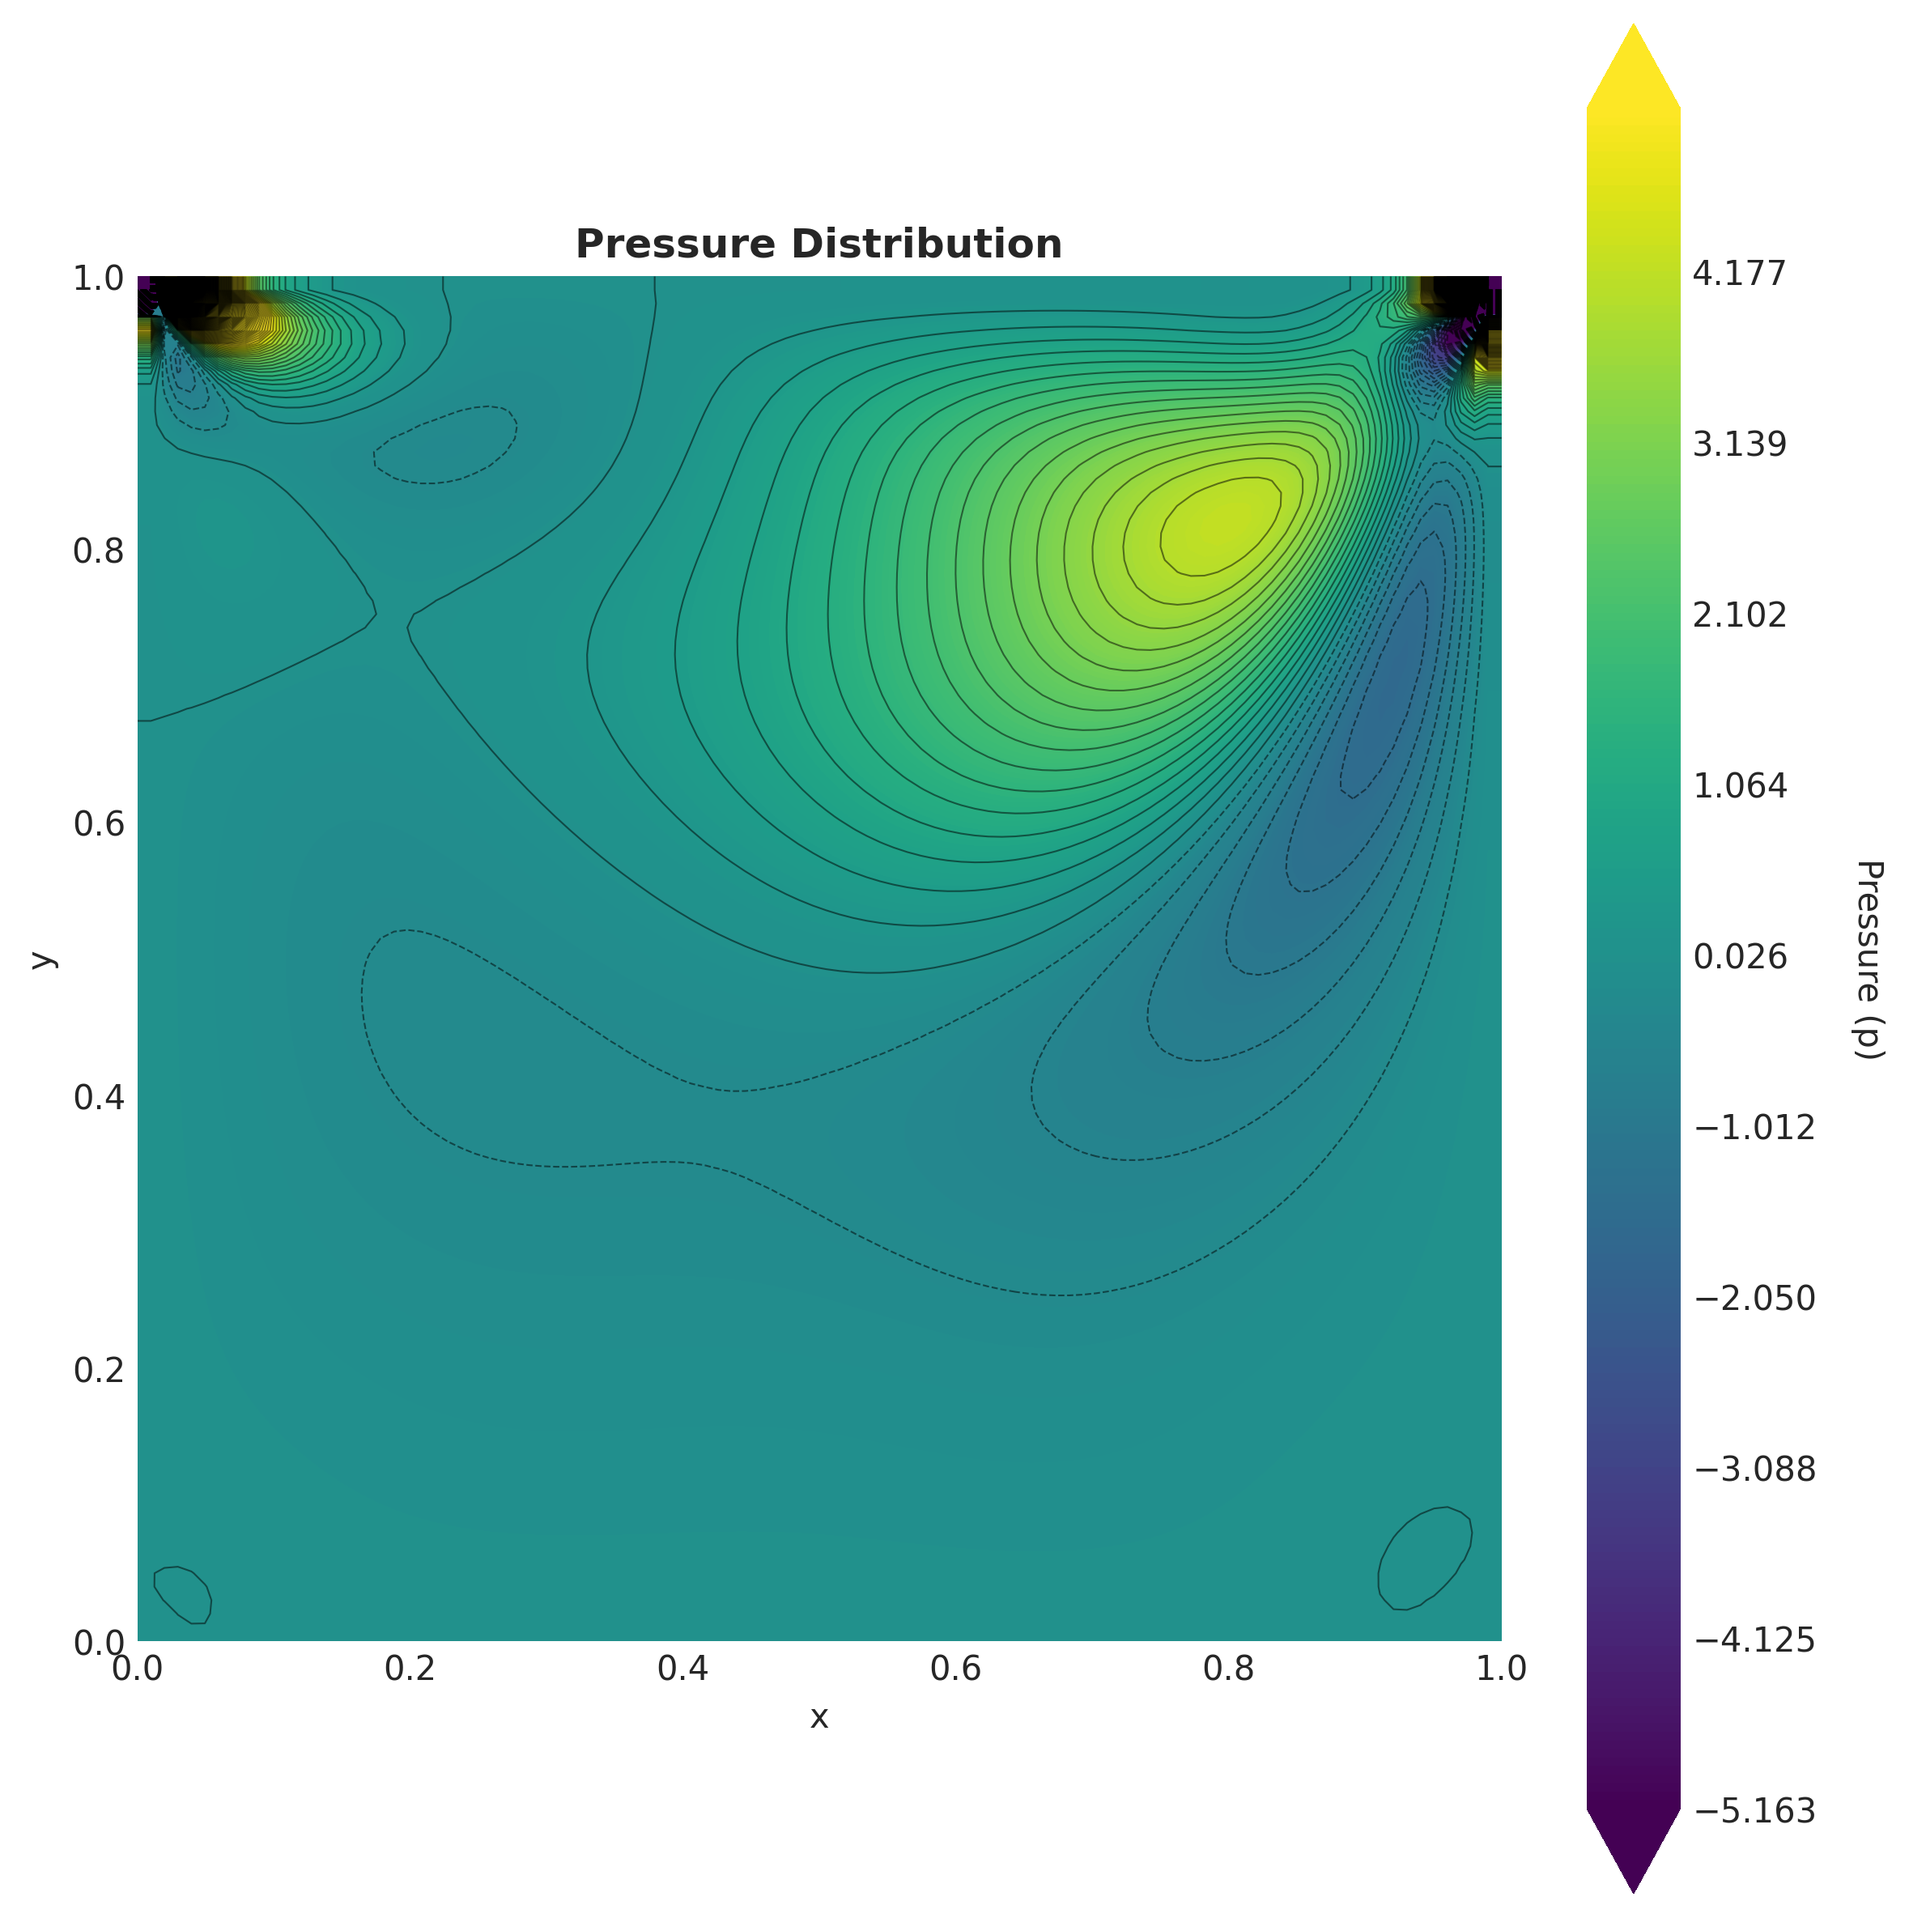
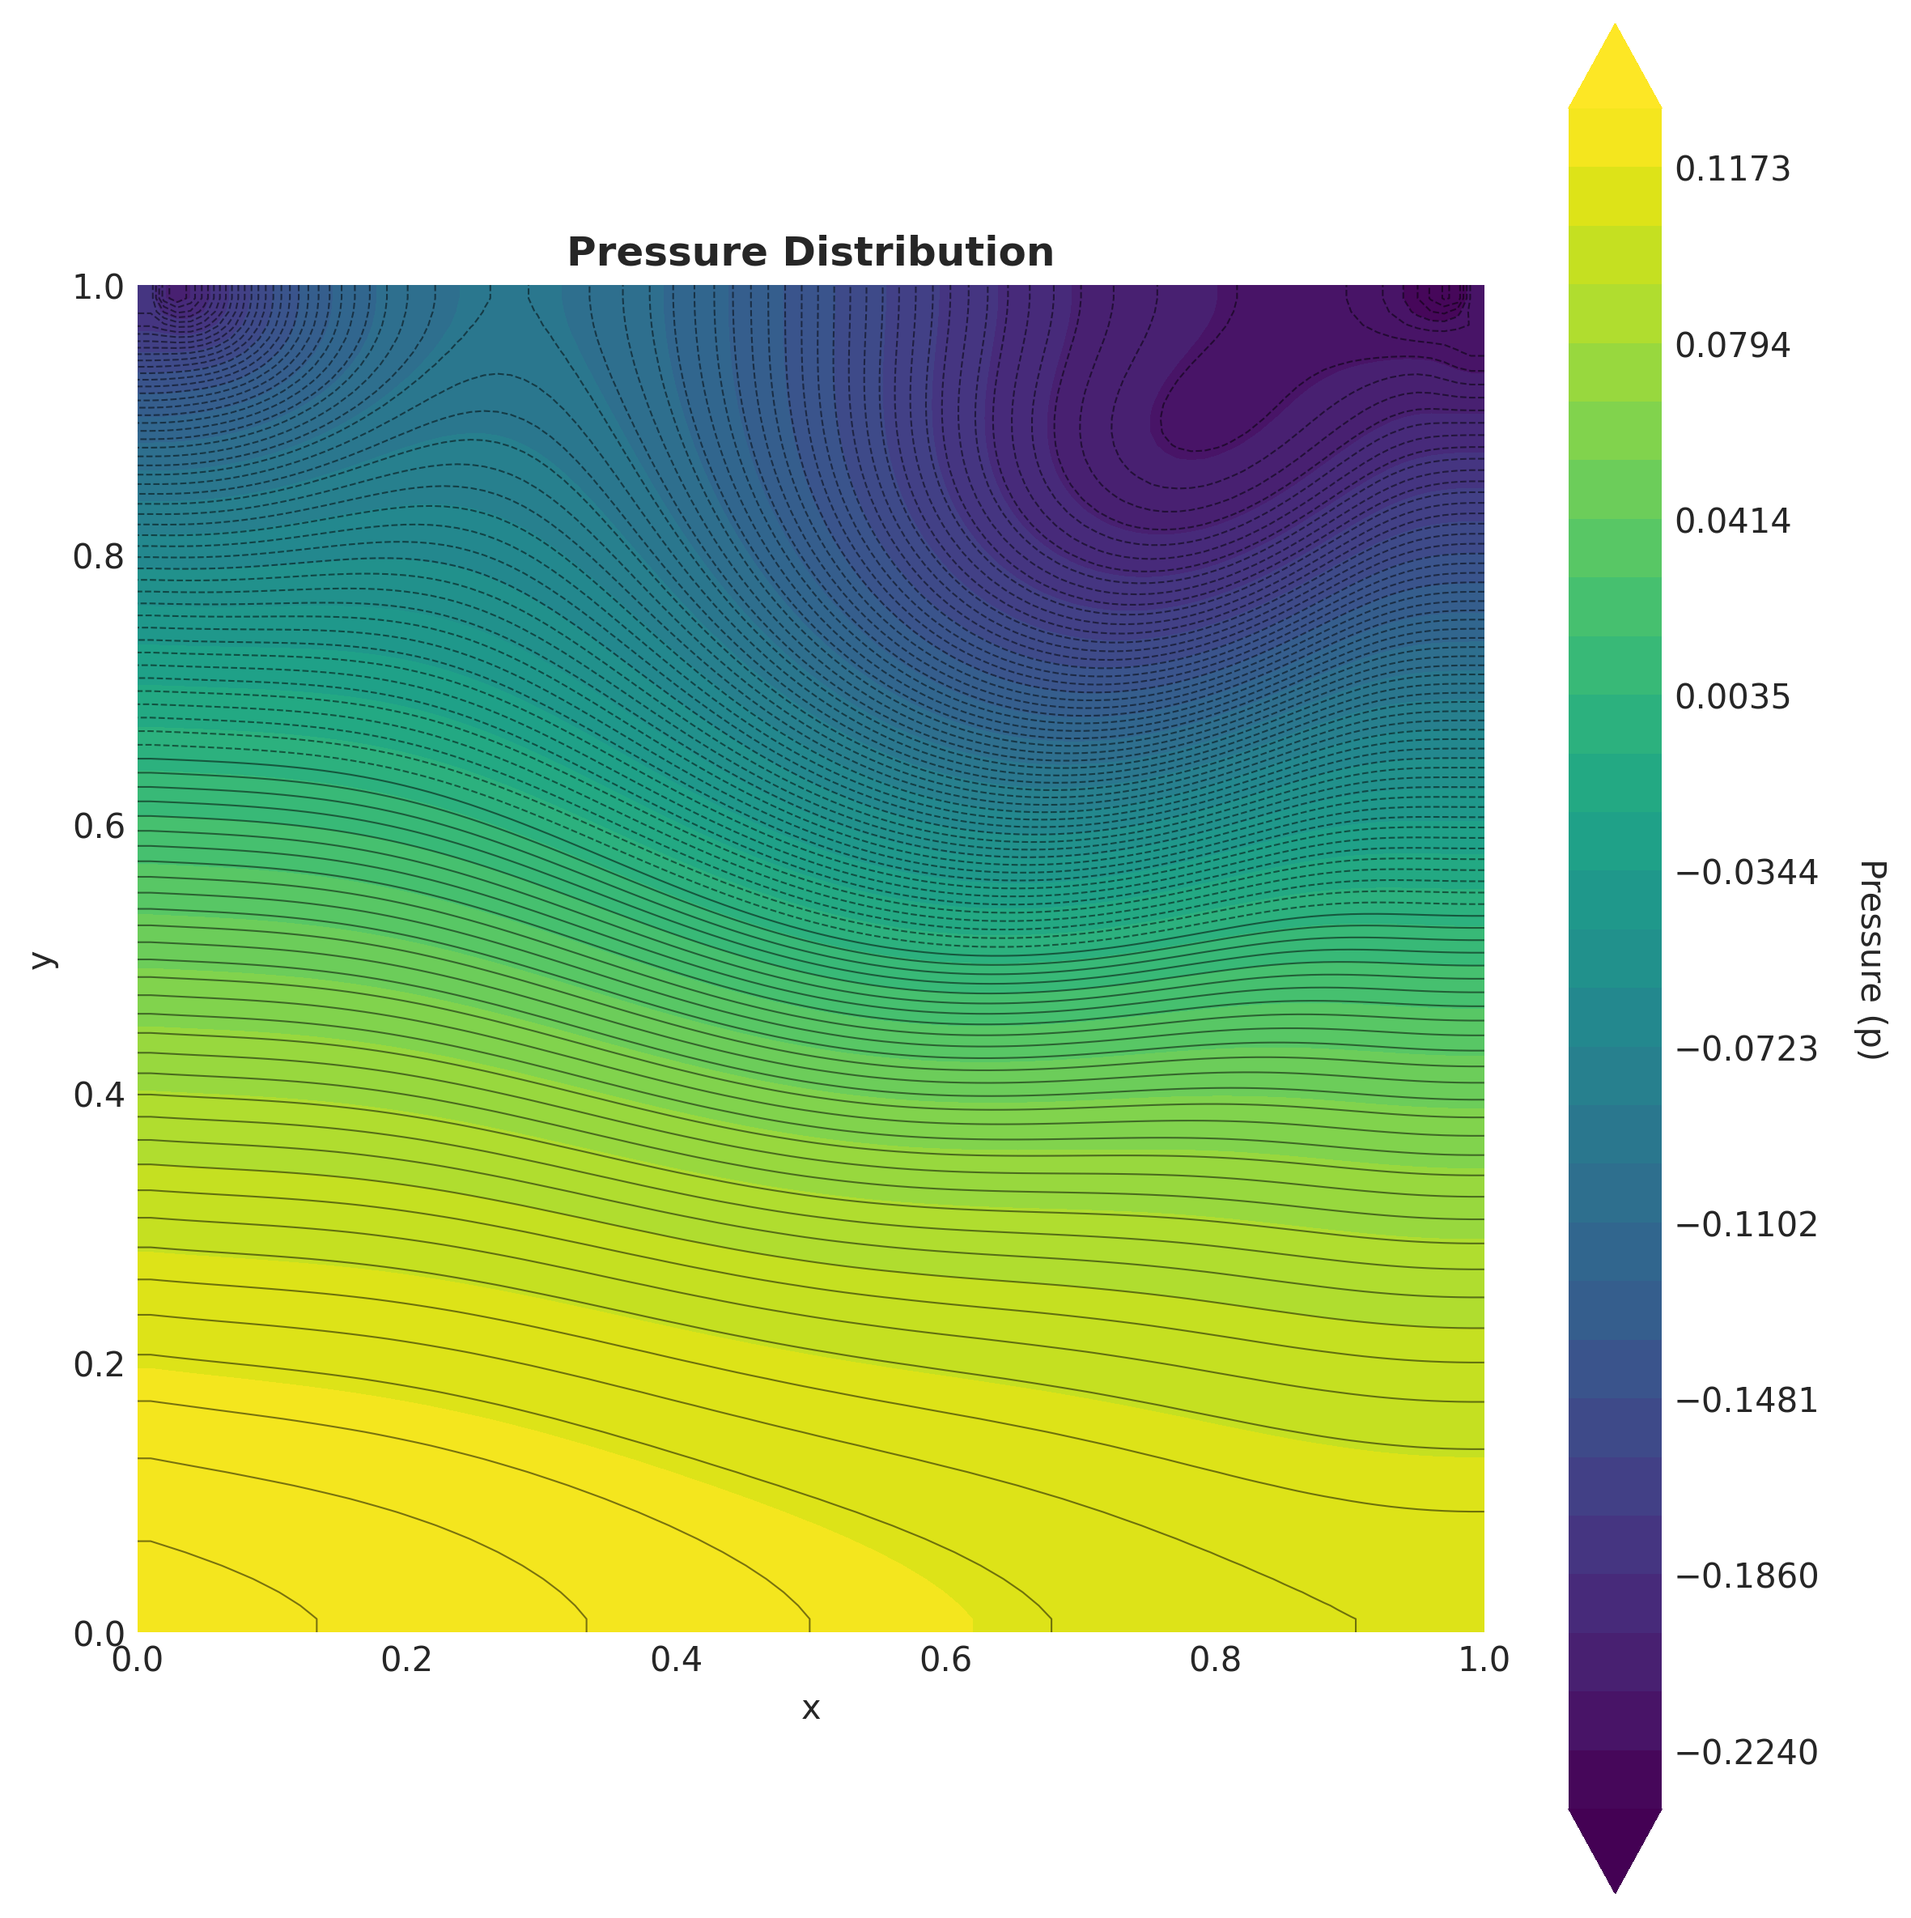
Corrected the pressure computation

diff --git a/grid_interpolation.py b/grid_interpolation.py
@@ -1,0 +1,103 @@
+#!/usr/bin/env python3
+"""
+Grid Convergence Table Generator
+Reads centerline velocity data from multiple grids, performs linear interpolation,
+and outputs a fully formatted LaTeX table.
+"""
+
+import numpy as np
+import os
+import sys
+
+# ==========================================
+# Configuration
+# ==========================================
+# Add or remove your grid sizes here (e.g., if you run a 201x201 grid, just add 201)
+grids = [51, 76, 101, 126, 151]
+
+# The folder where your data files are stored
+data_dir = (
+    "results/grid_study"  # Change this to "results" or "results/grid_study" if needed
+)
+
+# The locations where you want to sample the velocity
+target_locs = [0.25, 0.50, 0.75, 0.95]
+
+
+def generate_latex_table():
+    u_data = {}
+    v_data = {}
+
+    # 1. Read and Interpolate Data
+    for g in grids:
+        # Define file paths based on your naming convention
+        u_file = os.path.join(data_dir, f"u_centerline_{g}x{g}.dat")
+        v_file = os.path.join(data_dir, f"v_centerline_{g}x{g}.dat")
+
+        # Check if files exist before trying to read
+        if not os.path.exists(u_file) or not os.path.exists(v_file):
+            print(f"Error: Could not find files for grid {g}x{g}. Checked paths:")
+            print(f"  - {u_file}")
+            print(f"  - {v_file}")
+            sys.exit(1)
+
+        # Read u-velocity (y, u)
+        data_u = np.loadtxt(u_file, comments="#")
+        y_u, u_val = data_u[:, 0], data_u[:, 1]
+        u_data[g] = np.interp(target_locs, y_u, u_val)
+
+        # Read v-velocity (x, v)
+        data_v = np.loadtxt(v_file, comments="#")
+        x_v, v_val = data_v[:, 0], data_v[:, 1]
+        v_data[g] = np.interp(target_locs, x_v, v_val)
+
+    # 2. Build the LaTeX Table Header
+    num_cols = len(grids) + 1
+    col_format = "@{}l" + "c" * len(grids) + "@{}"
+
+    print("%" + "=" * 50)
+    print("% COPY AND PASTE THIS INTO YOUR .TEX FILE")
+    print("%" + "=" * 50)
+    print("\\begin{table}[!t]")
+    print("\\centering")
+    print("\\caption{Grid Convergence Analysis: Velocity Values at Selected Points}")
+    print("\\label{tab:convergence}")
+    print(f"\\begin{{tabular}}{{{col_format}}}")
+    print("\\toprule")
+
+    # Build the dynamic header row based on grids
+    header_cols = ["\\textbf{Location}"] + [
+        f"\\textbf{{{g}$\\times${g}}}" for g in grids
+    ]
+    print(" & ".join(header_cols) + " \\\\")
+
+    # 3. Build u-velocity section
+    print("\\midrule")
+    print(f"\\multicolumn{{{num_cols}}}{{c}}{{\\textit{{u-velocity at x = 0.5}}}} \\\\")
+    print("\\midrule")
+
+    for i, loc in enumerate(target_locs):
+        row = [f"y = {loc:.2f}"]
+        for g in grids:
+            row.append(f"{u_data[g][i]:8.5f}")
+        print(" & ".join(row) + " \\\\")
+
+    # 4. Build v-velocity section
+    print("\\midrule")
+    print(f"\\multicolumn{{{num_cols}}}{{c}}{{\\textit{{v-velocity at y = 0.5}}}} \\\\")
+    print("\\midrule")
+
+    for i, loc in enumerate(target_locs):
+        row = [f"x = {loc:.2f}"]
+        for g in grids:
+            row.append(f"{v_data[g][i]:8.5f}")
+        print(" & ".join(row) + " \\\\")
+
+    # 5. Close table
+    print("\\bottomrule")
+    print("\\end{tabular}")
+    print("\\end{table}")
+
+
+if __name__ == "__main__":
+    generate_latex_table()

diff --git a/postprocess.py b/postprocess.py
@@ -148,15 +148,15 @@ def plot_pressure(output_dir="results"):
 
     fig, ax = plt.subplots(figsize=(8, 8))
 
-    # 1. Get the rough limits ignoring the corner singularities
-    p_min_raw = np.percentile(p, 0.5)
-    p_max_raw = np.percentile(p, 99.5)
+    # # Get the rough limits ignoring the corner singularities
+    # p_min_raw = np.percentile(p, 0)
+    # p_max_raw = np.percentile(p, 100)
 
-    # 2. Find the absolute maximum to make the scale perfectly symmetric
-    p_limit = max(abs(p_min_raw), abs(p_max_raw))
+    # # Find the absolute maximum to make the scale perfectly symmetric
+    # p_limit = max(abs(p_min_raw), abs(p_max_raw))
+    # levels = np.linspace(-p_limit, p_limit, 30)
 
-    # 3. Create symmetric levels centered exactly on zero
-    levels = np.linspace(-p_limit, p_limit, 200)
+    levels = np.linspace(np.min(p), np.max(p), 30)
 
     # 4. Use a diverging colormap (Red-Blue reversed)
     cf = ax.contourf(X, Y, p, levels=levels, cmap="viridis", extend="both")
@@ -164,7 +164,7 @@ def plot_pressure(output_dir="results"):
     cbar.set_label("Pressure (p)", rotation=270, labelpad=20)
 
     # Add contour lines
-    cs = ax.contour(X, Y, p, levels=1000, colors="black", linewidths=0.5, alpha=0.5)
+    cs = ax.contour(X, Y, p, levels=100, colors="black", linewidths=0.5, alpha=0.5)
 
     ax.set_xlabel("x")
     ax.set_ylabel("y")
